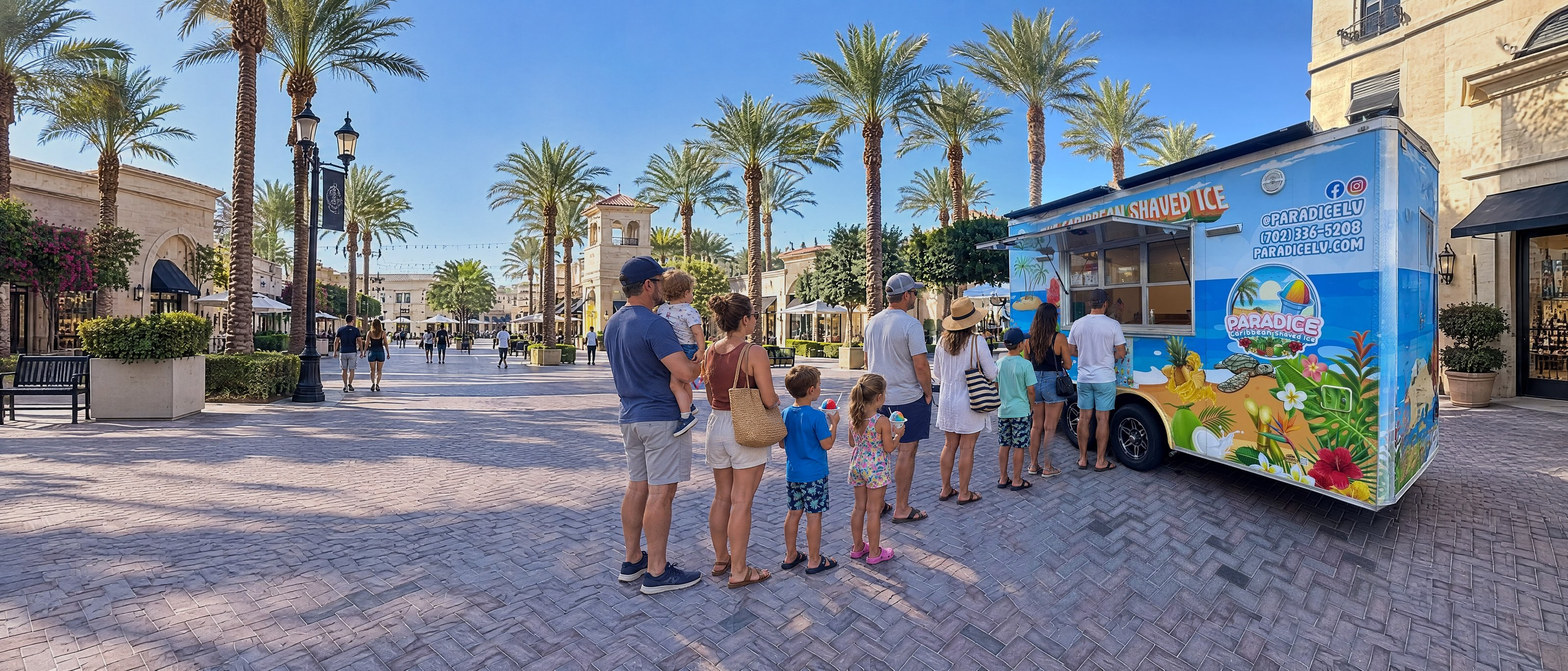
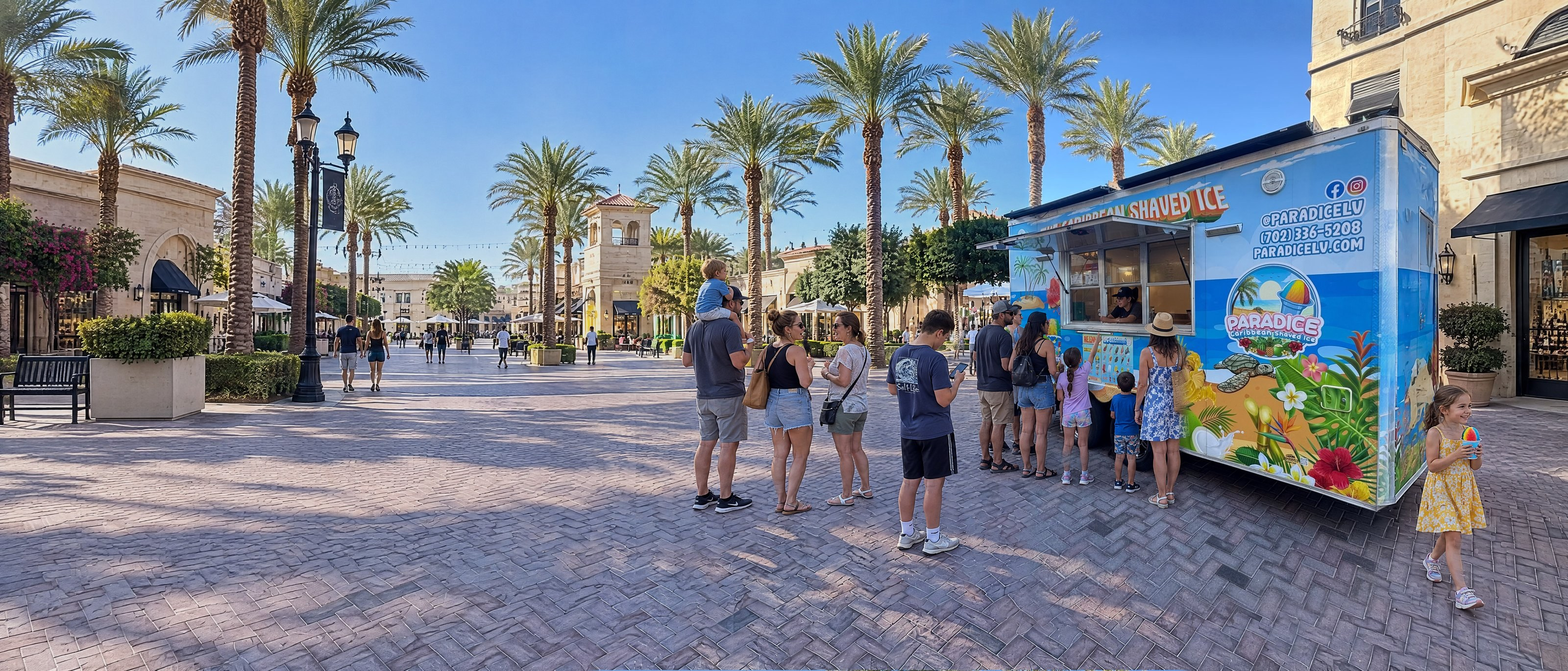
Franchise background: more natural, loose queue; only a kid leaving the window has a shaved ice
Claude-Session: https://claude.ai/code/session_01Ax2ebfCLAwu4tLrTQE874D

Changed region(s): [[0.375, 0.3676, 0.7812, 1.0], [0.875, 0.5514, 0.9688, 0.919]]

diff --git a/index.html b/index.html
@@ -670,7 +670,7 @@ footer{background:var(--blanc);padding-block:56px 24px;overflow:hidden}
 
 <section class="biz" id="own" aria-labelledby="own-title">
   <div class="biz__hero">
-    <div class="biz__bg" aria-hidden="true"><img src="assets/tivoli-queue.jpg?v=1" width="3200" height="1371" alt="" decoding="async"></div>
+    <div class="biz__bg" aria-hidden="true"><img src="assets/tivoli-queue.jpg?v=2" width="3200" height="1371" alt="" decoding="async"></div>
     <div class="biz__shade" aria-hidden="true"></div>
     <div class="wrap">
       <div class="biz__box">
